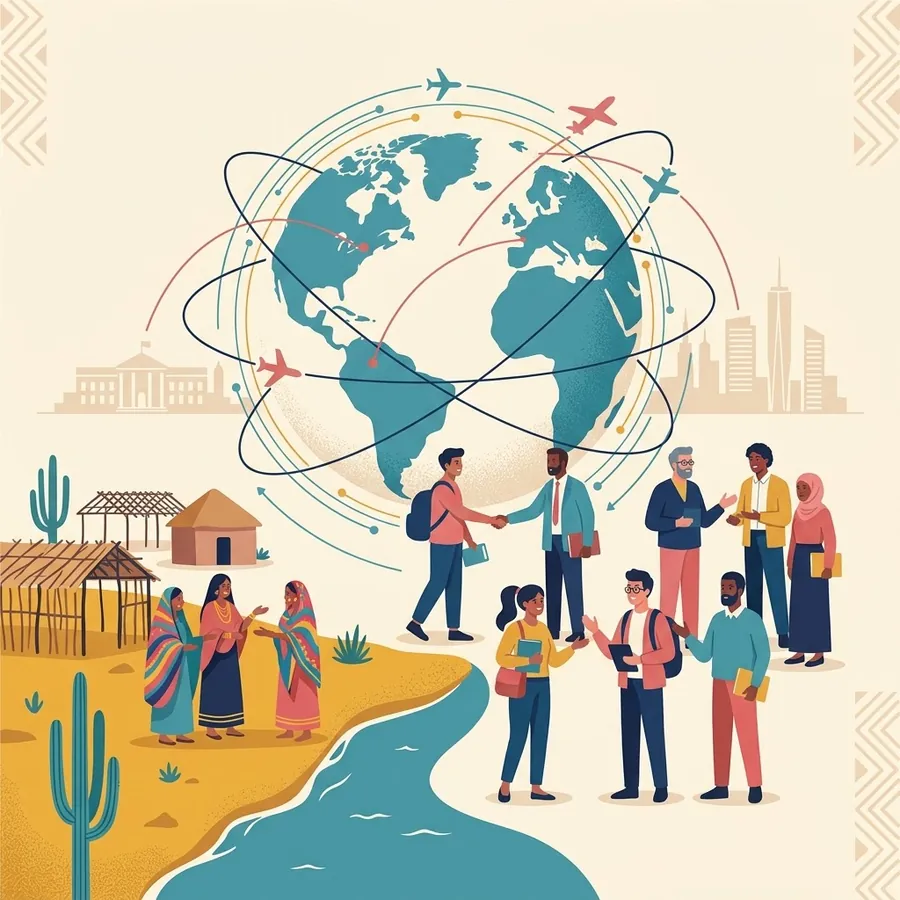
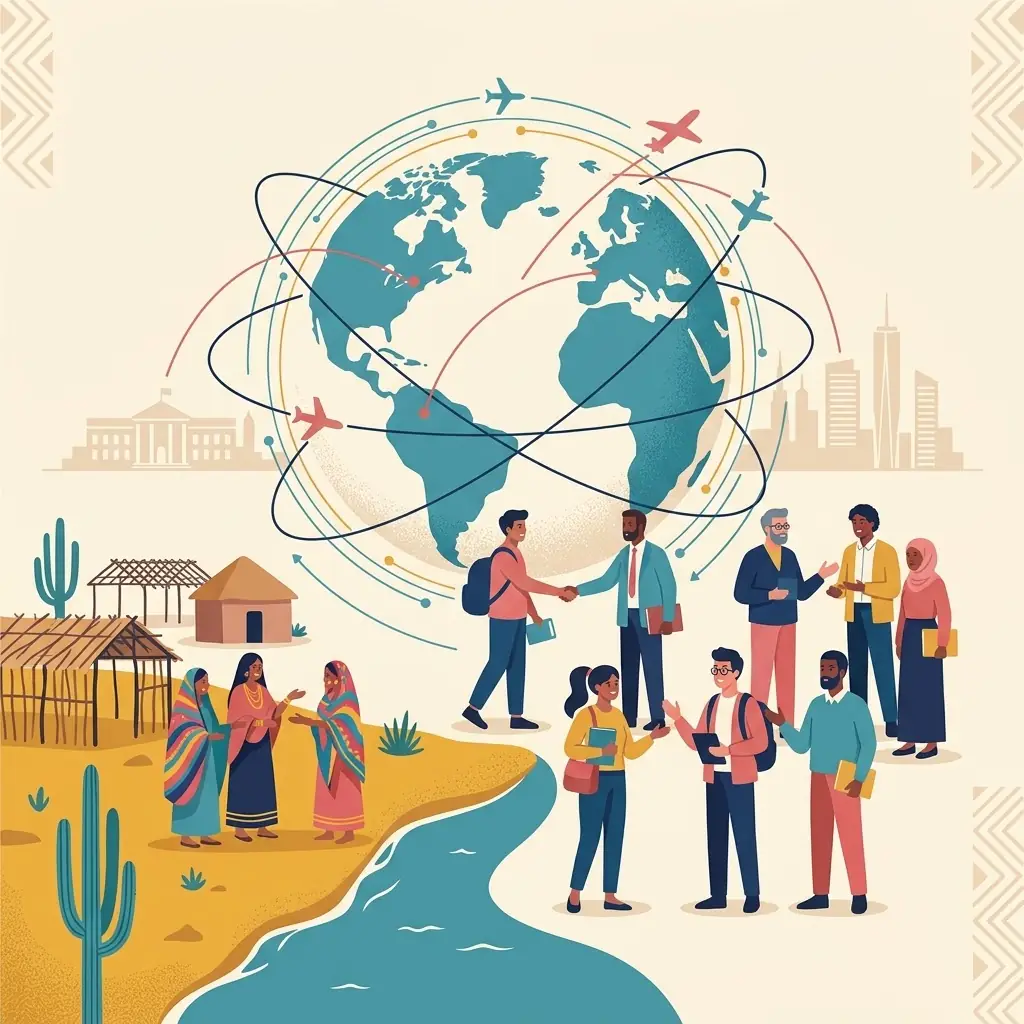
Optimizacion de imagenes quemadas y solucion de bug en menu desplegable, ajuste de botones de direccion del panel de convocatoria y eventos

diff --git a/app/src/pages/misionales/Convocatorias.jsx b/app/src/pages/misionales/Convocatorias.jsx
@@ -72,33 +72,71 @@ export default function Convocatorias() {
             <div style={{ textAlign: 'center', padding: '60px 20px', color: 'var(--ink-3)' }}>No hay convocatorias con ese criterio.</div>
           ) : (
             <div className="grid-3">
-              {items.map((c, i) => (
-                <div key={c.id ?? i} className="card" style={{ background: 'var(--paper-2)', display: 'flex', flexDirection: 'column', gap: 12, cursor: 'pointer' }}
-                  onClick={() => setOpen(open === (c.id ?? i) ? null : (c.id ?? i))}>
-                  <div style={{ display: 'flex', justifyContent: 'space-between', alignItems: 'start', gap: 8 }}>
-                    <span className="chip" style={{ fontSize: 10, background: colorMap[c.categoria] ?? 'var(--paper-3)', color: 'var(--ug-negro)', border: 'none' }}>{c.categoria}</span>
-                    <div style={{ display: 'flex', flexDirection: 'column', alignItems: 'end', gap: 4 }}>
-                      <span style={{ fontFamily: 'var(--font-mono)', fontSize: 11, color: 'var(--ink-3)' }}>Cierre: {fechaLarga(c.fecha_cierre)}</span>
-                      {c.sede && c.sede !== 'ambas' && (
-                        <span style={{ fontFamily: 'var(--font-mono)', fontSize: 10, letterSpacing: '.08em', color: 'var(--ug-marino)', textTransform: 'uppercase' }}>● {c.sede}</span>
+              {items.map((c, i) => {
+                const id = c.id ?? i
+                const abierta = open === id
+                /* `vencida` la calcula el servidor con la fecha de cierre: una
+                   convocatoria vencida no ofrece postularse aunque su estado
+                   en el panel siga diciendo «Abierta». */
+                const cerrada = Boolean(c.vencida)
+                const postular = !cerrada && c.url_postulacion
+                const verDoc = c.documento_url || (cerrada ? c.url_postulacion : '')
+                const mostrarDoc = verDoc && verDoc !== postular
+                const reqs = (Array.isArray(c.requisitos) ? c.requisitos : [c.requisitos]).filter(Boolean)
+                const hayDetalles = reqs.length > 0 || c.fecha_apertura || c.dirigida_a
+                return (
+                  <article key={id} className="card conv-card" style={{ background: 'var(--paper-2)', display: 'flex', flexDirection: 'column', gap: 12 }}>
+                    <div style={{ display: 'flex', justifyContent: 'space-between', alignItems: 'start', gap: 8 }}>
+                      <span className="chip" style={{ fontSize: 10, background: colorMap[c.categoria] ?? 'var(--paper-3)', color: 'var(--ug-negro)', border: 'none' }}>{c.categoria}</span>
+                      <div style={{ display: 'flex', flexDirection: 'column', alignItems: 'end', gap: 4 }}>
+                        <span className={'conv-estado' + (cerrada ? ' is-cerrada' : '')}>{cerrada ? 'Cerrada' : (c.estado || 'Abierta')}</span>
+                        {c.fecha_cierre && (
+                          <span style={{ fontFamily: 'var(--font-mono)', fontSize: 11, color: 'var(--ink-3)' }}>Cierre: {fechaLarga(c.fecha_cierre)}</span>
+                        )}
+                        {c.sede && c.sede !== 'ambas' && (
+                          <span style={{ fontFamily: 'var(--font-mono)', fontSize: 10, letterSpacing: '.08em', color: 'var(--ug-marino)', textTransform: 'uppercase' }}>● {c.sede}</span>
+                        )}
+                      </div>
+                    </div>
+                    <h2 style={{ fontFamily: 'var(--font-display)', fontWeight: 600, fontSize: 18, letterSpacing: '-0.01em', lineHeight: 1.2, margin: 0 }}>{c.titulo}</h2>
+                    <p style={{ fontSize: 14, color: 'var(--ink-2)', flex: 1, margin: 0 }}>{c.descripcion}</p>
+
+                    {abierta && (
+                      <div id={'conv-detalle-' + id} className="conv-detalle">
+                        {(c.fecha_apertura || c.fecha_cierre) && (
+                          <div><b>Fechas:</b> {[c.fecha_apertura && 'del ' + fechaLarga(c.fecha_apertura), c.fecha_cierre && 'al ' + fechaLarga(c.fecha_cierre)].filter(Boolean).join(' ')}</div>
+                        )}
+                        {c.dirigida_a && <div><b>Dirigida a:</b> {c.dirigida_a}</div>}
+                        {reqs.length > 0 && (
+                          <>
+                            <div style={{ fontWeight: 600, marginTop: 6 }}>Requisitos</div>
+                            <ul>{reqs.map((r, j) => <li key={j}>{r}</li>)}</ul>
+                          </>
+                        )}
+                      </div>
+                    )}
+
+                    <div className="conv-acciones">
+                      {postular && (
+                        <a className="btn accent" href={postular} target="_blank" rel="noopener noreferrer">
+                          Postularme <Icons.external />
+                        </a>
+                      )}
+                      {mostrarDoc && (
+                        <a className="btn ghost" href={verDoc} target="_blank" rel="noopener noreferrer">
+                          Ver convocatoria <Icons.external />
+                        </a>
+                      )}
+                      {hayDetalles && (
+                        <button type="button" className="conv-toggle" aria-expanded={abierta} aria-controls={'conv-detalle-' + id}
+                                onClick={() => setOpen(abierta ? null : id)}>
+                          {abierta ? 'Ocultar detalles' : 'Ver detalles'}
+                        </button>
                       )}
                     </div>
-                  </div>
-                  <div style={{ fontFamily: 'var(--font-display)', fontWeight: 600, fontSize: 18, letterSpacing: '-0.01em', lineHeight: 1.2 }}>{c.titulo}</div>
-                  <p style={{ fontSize: 14, color: 'var(--ink-2)', flex: 1 }}>{c.descripcion}</p>
-                  {open === (c.id ?? i) && c.requisitos && (
-                    <div style={{ background: 'var(--paper)', borderRadius: 8, padding: 14, fontSize: 13 }}>
-                      <div style={{ fontWeight: 600, marginBottom: 8 }}>Requisitos</div>
-                      <ul style={{ paddingLeft: 18, display: 'flex', flexDirection: 'column', gap: 4, color: 'var(--ink-2)' }}>
-                        {(Array.isArray(c.requisitos) ? c.requisitos : [c.requisitos]).map((r, j) => <li key={j}>{r}</li>)}
-                      </ul>
-                    </div>
-                  )}
-                  <button className="btn ghost" style={{ padding: '8px 16px', fontSize: 13, marginTop: 'auto', alignSelf: 'start' }} onClick={e => e.stopPropagation()}>
-                    Ver más <Icons.arrow />
-                  </button>
-                </div>
-              ))}
+                  </article>
+                )
+              })}
             </div>
           )}
         </div>

diff --git a/app/src/components/Header.jsx b/app/src/components/Header.jsx
@@ -40,15 +40,50 @@ const BRIDGE = 8
 function NavDrop({ item, isOpen, onOpen, onClose }) {
   const location = useLocation()
   const closeTimer = useRef(null)
+  const caja = useRef(null)
+  /* Con qué se pulsó el botón por última vez (ratón, toque o lápiz). */
+  const tipoPuntero = useRef('')
 
-  const handleMouseEnter = () => {
+  /* Solo el ratón abre al pasar por encima. En pantallas táctiles el
+     navegador simula un «hover» justo antes del toque y pasaba lo mismo:
+     se abría y el toque lo cerraba. Ahí solo cuenta el toque. */
+  const handlePointerEnter = e => {
+    if (e.pointerType !== 'mouse') return
     clearTimeout(closeTimer.current)
     onOpen()
   }
 
-  const handleMouseLeave = () => {
-    closeTimer.current = setTimeout(onClose, 150)
+  const handlePointerLeave = e => {
+    if (e.pointerType !== 'mouse') return
+    closeTimer.current = setTimeout(onClose, 200)
   }
+
+  /* Con ratón el menú ya lo abrió el hover, así que el clic sobre la
+     pestaña nunca lo cierra. Antes alternaba con una gracia de 600 ms: quien
+     se quedaba un momento sobre la pestaña y luego hacía clic veía el menú
+     abrirse y cerrarse solo. Con ratón se cierra al salir, con Esc o con un
+     clic fuera. Con toque o teclado (Enter/Espacio) sigue alternando. */
+  const handleClick = () => {
+    const conRaton = tipoPuntero.current === 'mouse'
+    tipoPuntero.current = ''
+    if (!isOpen) { onOpen(); return }
+    if (!conRaton) onClose()
+  }
+
+  /* Abierto, se cierra con Esc o con un clic fuera de él. */
+  useEffect(() => {
+    if (!isOpen) return
+    const fuera = e => { if (!caja.current?.contains(e.target)) onClose() }
+    const esc = e => { if (e.key === 'Escape') onClose() }
+    document.addEventListener('pointerdown', fuera)
+    document.addEventListener('keydown', esc)
+    return () => {
+      document.removeEventListener('pointerdown', fuera)
+      document.removeEventListener('keydown', esc)
+    }
+  }, [isOpen, onClose])
+
+  useEffect(() => () => clearTimeout(closeTimer.current), [])
 
   /* También cuenta una subpágina (la ficha de una acción del plan, por
      ejemplo): sigue estando dentro de esa sección del menú. */
@@ -56,11 +91,14 @@ function NavDrop({ item, isOpen, onOpen, onClose }) {
 
   return (
     <div
+      ref={caja}
       style={{ position: 'relative', paddingBottom: BRIDGE }}
-      onMouseEnter={handleMouseEnter}
-      onMouseLeave={handleMouseLeave}
+      onPointerEnter={handlePointerEnter}
+      onPointerLeave={handlePointerLeave}
     >
-      <button className={active ? 'active' : ''} onClick={() => isOpen ? onClose() : onOpen()}>
+      <button className={active ? 'active' : ''} onClick={handleClick}
+              onPointerDown={e => { tipoPuntero.current = e.pointerType }}
+              aria-expanded={isOpen} aria-haspopup="true">
         {item.label}
         {item.badge && <span style={{ marginLeft: 6, color: 'var(--ug-flamingo)' }}>●</span>}
         {' '}<span style={{ fontSize: 9, marginLeft: 4, opacity: .6 }}>▼</span>
@@ -152,7 +190,11 @@ export default function Header({ theme, setTheme }) {
                   item={n}
                   isOpen={dropOpen === i}
                   onOpen={() => setDropOpen(i)}
-                  onClose={() => setDropOpen(null)}
+                  /* Cada menú solo puede cerrarse a SÍ MISMO. Al pasar de
+                     «Programa» a «Acreditación», el temporizador de salida de
+                     Programa vencía 200 ms después y cerraba el que estuviera
+                     abierto, que ya era Acreditación: se abría y se cerraba. */
+                  onClose={() => setDropOpen(actual => (actual === i ? null : actual))}
                 />
               )
             }

diff --git a/app/src/styles/app.css b/app/src/styles/app.css
@@ -6866,3 +6866,25 @@ a.org-dato:hover { color: var(--doc-azul-texto); text-decoration: underline; }
 .sp-cifras__enlace { color: inherit; text-decoration: none; }
 .sp-cifras__enlace span { display: inline-flex; align-items: center; gap: 6px; }
 .sp-cifras__enlace:hover span { color: #fff; text-decoration: underline; }
+
+/* ---------- Convocatorias (misionales/Convocatorias.jsx) ----------
+   Estado en pastilla (Cerrada en gris cuando pasó la fecha de cierre), los
+   enlaces reales de postulación y documento, y el desplegable de detalles. */
+.conv-estado {
+  font-family: var(--font-mono); font-size: 10px; letter-spacing: .1em; text-transform: uppercase;
+  padding: 3px 9px; border-radius: 999px; background: var(--doc-azul-tint); color: var(--doc-azul-texto);
+}
+.conv-estado.is-cerrada { background: var(--doc-neutro-tint); color: var(--doc-neutro-texto); }
+.conv-detalle {
+  background: var(--paper); border-radius: 8px; padding: 14px; font-size: 13px; color: var(--ink-2);
+  display: grid; gap: 4px; line-height: 1.5;
+}
+.conv-detalle b { color: var(--ink); font-weight: 600; }
+.conv-detalle ul { margin: 2px 0 0; padding-left: 18px; display: grid; gap: 4px; }
+.conv-acciones { display: flex; flex-wrap: wrap; align-items: center; gap: 8px 14px; margin-top: auto; padding-top: 4px; }
+.conv-acciones .btn { padding: 8px 16px; font-size: 13px; }
+.conv-toggle {
+  background: none; border: 0; padding: 4px 0; cursor: pointer; font: inherit; font-size: 13px; font-weight: 600;
+  color: var(--doc-azul-texto); text-decoration: underline; text-underline-offset: 3px;
+}
+.conv-toggle:hover { color: var(--ink); }

diff --git a/app/src/data/acreditacion.js b/app/src/data/acreditacion.js
@@ -9,8 +9,12 @@ export const ESCALA = [
   { k: 'nocumple',        letra: 'E', label: 'No se cumple',                desde: 0,  hasta: 30,  color: '#5a5f63' },
 ]
 
-/* Ilustración de cada factor (public/images/factores/factor-N.webp). */
-export const imagenFactor = n => `/images/factores/factor-${n}.webp`
+/* Ilustración de cada factor, en dos tamaños (public/images/factores/):
+   factor-N.webp (1024 px) para la franja de la página del factor, que se abre
+   de una en una, y factor-N-sm.webp (560 px, ~34 KB) para las tarjetas del
+   tablero y la portada, donde se cargan las doce juntas. */
+export const imagenFactor = (n, tam = 'grande') =>
+  `/images/factores/factor-${n}${tam === 'sm' ? '-sm' : ''}.webp`
 
 export const STATUS_LABELS = Object.fromEntries(ESCALA.map(e => [e.k, e.label]))
 export const STATUS_COLOR  = Object.fromEntries(ESCALA.map(e => [e.k, e.color]))

diff --git a/app/src/pages/acreditacion/index.jsx b/app/src/pages/acreditacion/index.jsx
@@ -193,7 +193,7 @@ export default function Acreditacion() {
               <button key={f.n} className="factor-card" data-status={f.status}
                 style={{ opacity: filter !== 'all' && f.status !== filter ? 0.28 : 1 }}
                 onClick={() => abrir(f.n)}>
-                <img className="factor-card__img" src={imagenFactor(f.n)} alt="" loading="lazy" />
+                <img className="factor-card__img" src={imagenFactor(f.n, 'sm')} alt="" loading="lazy" decoding="async" />
                 <div className="factor-card__cab">
                   <div className="n">Factor {String(f.n).padStart(2,'0')}{f.ponderacion ? ' · ' + f.ponderacion.toFixed(2).replace('.', ',') + ' %' : ''}</div>
                   <div className="factor-pill">{STATUS_LABELS[f.status]}</div>

diff --git a/app/src/pages/acreditacion/FactorPage.jsx b/app/src/pages/acreditacion/FactorPage.jsx
@@ -458,7 +458,7 @@ export default function FactorPage({ factor, allFactores, onBack, onNavigate }) 
           <div className="hero-card__patron" aria-hidden="true" />
           {/* Ilustración del factor como franja: la imagen es cuadrada y se
               recorta al centro. Decorativa, por eso alt vacío. */}
-          <img className="fac-hero__img" src={imagenFactor(factor.n)} alt="" />
+          <img className="fac-hero__img" src={imagenFactor(factor.n)} alt="" decoding="async" fetchpriority="high" />
           <div className="hero-card__contenido">
             {/* El título a la izquierda y la calificación en su anillo a la
                 derecha, el mismo del tablero, para que el número se vea antes

diff --git a/app/src/pages/Home.jsx b/app/src/pages/Home.jsx
@@ -243,7 +243,7 @@ function CNAPreview() {
                           style={{ '--tono': STATUS_COLOR[statusFromScore(f.score)] }}
                           onClick={() => nav(`/acreditacion?factor=${f.n}`)}
                           aria-label={`Factor ${f.n}: ${f.t}. Ver el detalle`} title={f.t}>
-                    <img className="inicio-cna__img" src={imagenFactor(f.n)} alt="" loading="lazy" />
+                    <img className="inicio-cna__img" src={imagenFactor(f.n, 'sm')} alt="" loading="lazy" decoding="async" />
                     <span className="inicio-cna__n">{f.n}</span>
                   </button>
                 ))
